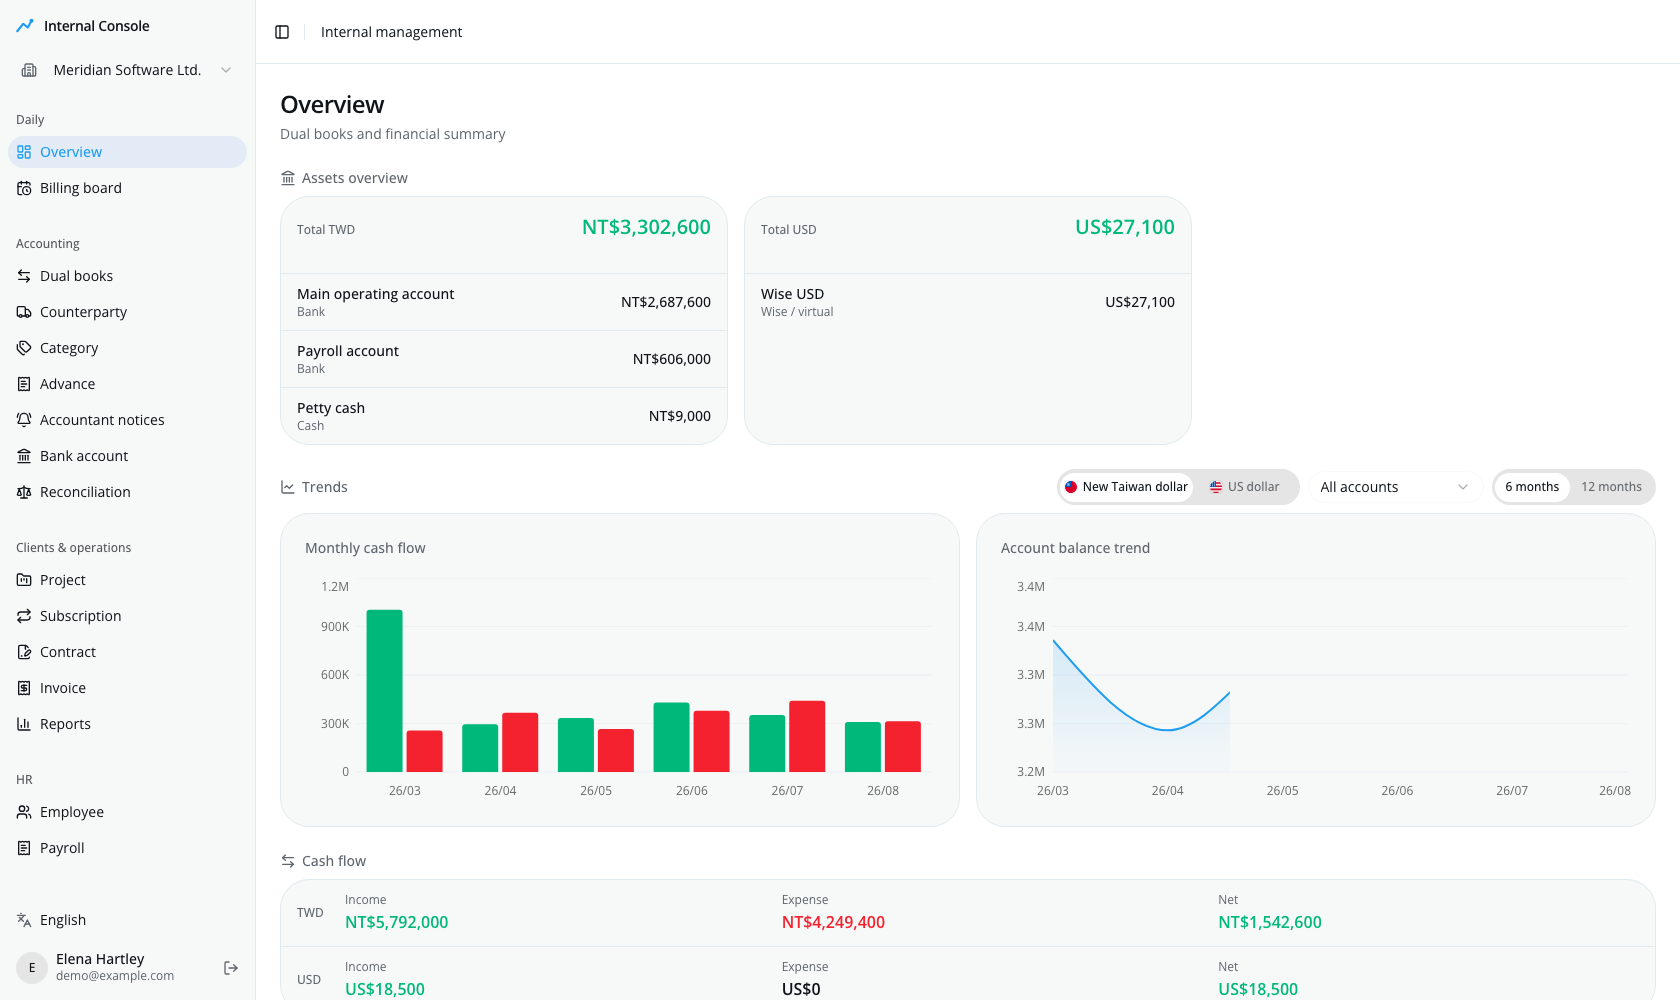
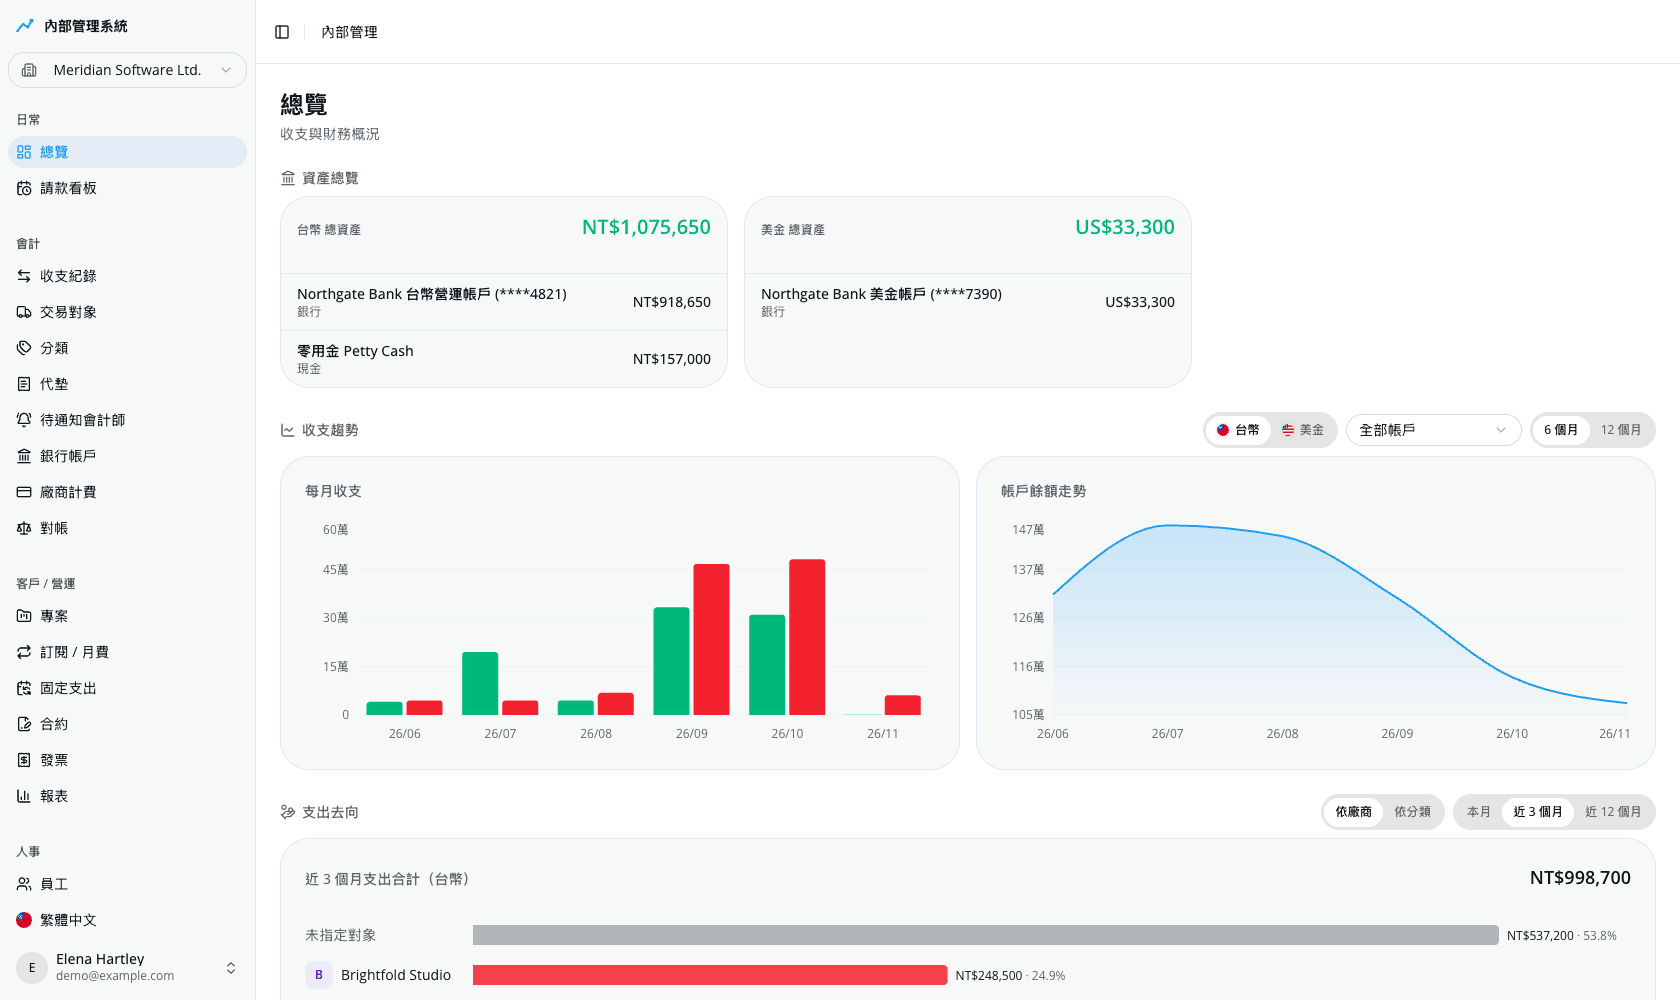
[docs] 重拍 README 與 landing 截圖：管理帳／稅務帳新用語、demo org 中文介面

diff --git a/README.md b/README.md
@@ -43,7 +43,8 @@ sidebar. The codebase, docs and configuration are English.
 
 ## What it looks like
 
-> Screenshots are from a demo organization — the company, clients and figures are all made up.
+> Screenshots are from a demo organization (`scripts/seed-demo-org.ts`) — the company, clients and
+> figures are all made up. They show the Traditional Chinese UI; switch to English from the sidebar.
 
 There is also a [landing page](https://pathorsai.github.io/internal/) that walks through the
 same ideas — it is [`docs/index.html`](docs/index.html), published with GitHub Pages.
